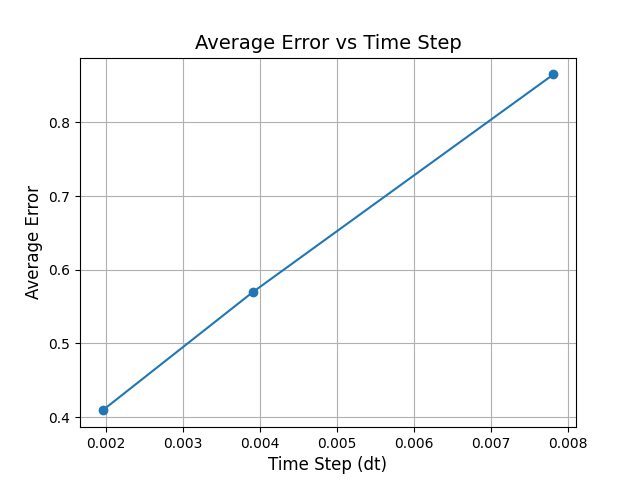
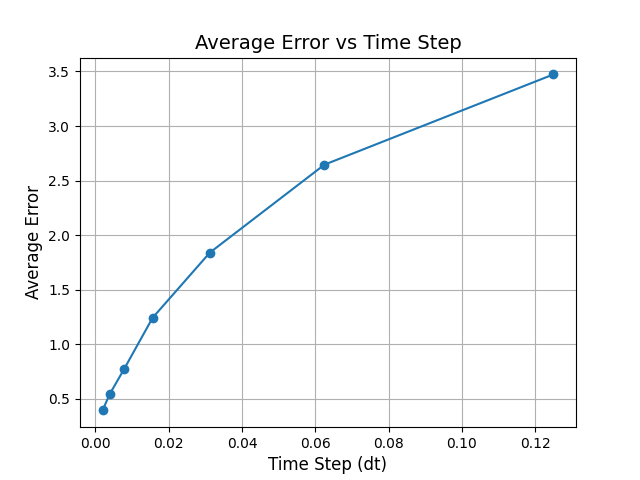
Upd

diff --git a/gbm.py b/gbm.py
@@ -40,6 +40,35 @@ def euler_maruyama(S0, r, sigma, N, dW, dt):
     return St_em, L
 
 
+# def euler_maruyama(S0, r, sigma, N, dW, dt):
+#     St_em = np.zeros(N)
+#     St_em[0] = S0
+
+#     for i in range(1, N):
+#         St_em[i] = (
+#             St_em[i - 1] 
+#             + r * St_em[i - 1] * dt 
+#             + sigma * St_em[i - 1] * dW[i - 1]
+#         )
+
+#     return St_em
+
+
+def milstein(S0, r, sigma, N, dW, dt):
+    St_mil = np.zeros(N)
+    St_mil[0] = S0
+
+    for i in range(1, N):
+        St_mil[i] = (
+            St_mil[i - 1]
+            + r * St_mil[i - 1] * dt
+            + sigma * St_mil[i - 1] * dW[i - 1]
+            + 0.5 * sigma**2 * St_mil[i - 1] * (dW[i - 1] ** 2 - dt)
+        )
+
+    return St_mil
+
+
 def plot_solutions(S0, T, dt, St_true, St_em, L, color="b"):
     if len(St_true) != 0:
         plt.plot(
@@ -52,11 +81,11 @@ def plot_solutions(S0, T, dt, St_true, St_em, L, color="b"):
         np.linspace(0, T, L + 1),
         np.concatenate(([S0], St_em)),
         "--*",
-        label=f"EM dt={dt:.5f}",
+        label=f"EM",
         color=color,
     )
-    plt.xlabel("Time (t)", fontsize=12)
-    plt.ylabel("Stock (S)", fontsize=16, rotation=0, horizontalalignment="right")
+    plt.xlabel("Time (t)")
+    plt.ylabel("Stock (S)")
     plt.legend()
 
 
@@ -68,7 +97,7 @@ def compute_error(St_em, St_true):
 def main():
     set_random_seed()
     r, sigma, S0, T = gbm_parameters()
-    n_values = [2**7, 2**8, 2**9]
+    n_values = [2**3, 2**4, 2**5, 2**6, 2**7, 2**8, 2**9]
 
     # Calculate final time average error for different values of dt
     num_runs = 1000
@@ -93,6 +122,9 @@ def main():
     plt.grid(True)
     plt.savefig("error_vs_dt.png")
 
+    exit(0)
+
+
     # Compare EMs with different dt
     N_fix = 2**9
     dt_fix = T / N_fix
@@ -102,18 +134,30 @@ def main():
     plt.figure(figsize=(15, 6))
     plot_solutions(S0, T, dt_fix, St_true, St_em, L)
 
-    colors = ["g", "c", "m", "y", "k"]
-    for i, N in enumerate(n_values[:-2]):
-        dt = T / N
-        W_coarse = W_fix[:: N_fix // N]  # Subsample Brownian motion
-        dW_coarse = np.diff(W_coarse)
-        St_em, L = euler_maruyama(S0, r, sigma, N, dW_coarse, dt)
-        color = colors[i % len(colors)]
-        plot_solutions(S0, T, dt, [], St_em, L, color=color)
-    plt.title(
-        "Comparison of Euler-Maruyama Solutions with Different Time Steps", fontsize=14
+    # colors = ["g", "c", "m", "y", "k"]
+    # for i, N in enumerate(n_values[:-2]):
+    #     dt = T / N
+    #     W_coarse = W_fix[:: N_fix // N]  # Subsample Brownian motion
+    #     dW_coarse = np.diff(W_coarse)
+    #     St_em, L = euler_maruyama(S0, r, sigma, N, dW_coarse, dt)
+    #     color = colors[i % len(colors)]
+    #     plot_solutions(S0, T, dt, [], St_em, L, color=color)
+
+    # Milstein method comparison
+    St_mil = milstein(S0, r, sigma, N_fix, dW_fix, dt_fix)
+    plt.plot(
+        np.linspace(0, T, N_fix),
+        St_mil,
+        "y--",
+        label="Milstein",
     )
-    plt.savefig("em_comparison.png")
+
+    plt.title(
+        "Comparison of Euler-Maruyama and Milstein Solutions",
+        fontsize=14,
+    )
+    plt.legend()
+    plt.savefig("em_vs_mil.png")
 
 
 if __name__ == "__main__":

diff --git a/logistic.py b/logistic.py
@@ -74,11 +74,11 @@ if __name__ == "__main__":
     plt.figure(figsize=(12, 6))
     # plt.plot(t, X_ref, label="Reference (Analytical)", linestyle="--", linewidth=2)
     plt.plot(t, X_em, label="Euler-Maruyama", alpha=0.7)
-    plt.plot(t, X_milstein, label="aNAL", alpha=0.7)
+    plt.plot(t, X_milstein, label="Analytical", alpha=0.7)
     plt.title("Comparison of Analytical and Numerical Solutions for Logistic SDE")
     plt.xlabel("Time")
     plt.ylabel("X_t")
     plt.legend()
     plt.grid()
-    plt.show()
-    # plt.savefig("logistic.png")
+    # plt.show()
+    plt.savefig("logistic.png")
